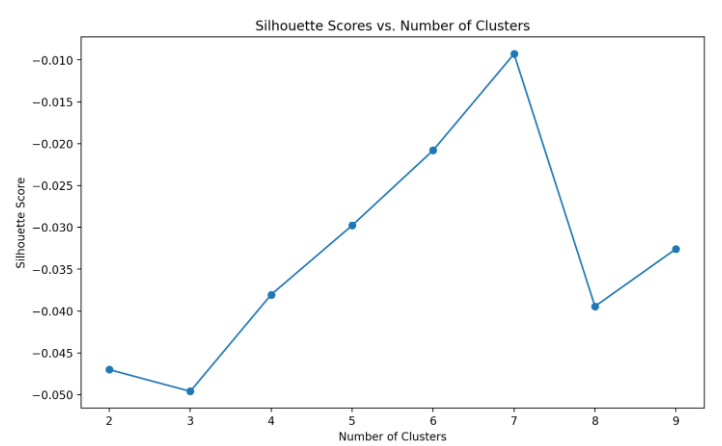
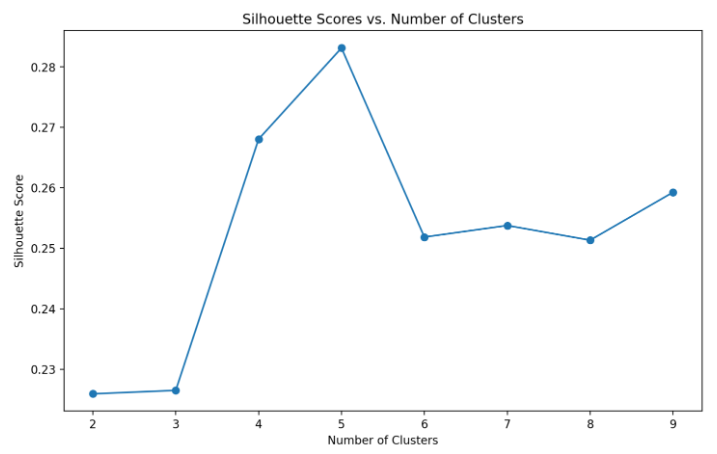
Finished land value Pickled model for prediction

diff --git a/land_value.py b/land_value.py
@@ -9,7 +9,7 @@ import streamlit.components.v1 as components
 '''
 
 """
-Ce projet consiste à analyser et prédire les valeurs foncières en France.\n
+Ce projet consiste à analyser et prédire les valeurs foncières en France métropolitaine.\n
 Nous utiliserons un dataset contenant des informations sur les transactions immobilières en France en 2023. Nous allons commencer par charger et explorer les données, puis nous allons entraîner des modèles de machine learning pour prédire les valeurs foncières.\n
 Pour gagner du temps, seulement 10% des données seront chargées.\n
 Source des données: """ 
@@ -154,7 +154,7 @@ fig = px.choropleth_mapbox(
     color='Prix_m2',
     color_continuous_scale="Viridis",
     mapbox_style="carto-positron",
-    zoom=5,
+    zoom=4,
     center={"lat": 46.603354, "lon": 1.888334},
     opacity=0.6,
     labels={'Prix_m2': 'Prix moyen par m²'},
@@ -194,6 +194,7 @@ import matplotlib.pyplot as plt
 
 # Encoder les colonnes code departement et type local en utilisant OneHotEncoder
 encoder = OneHotEncoder()
+df.drop('Prix_m2', axis=1, inplace=True)
 df_encoded = df.copy()
 for col in ['Code departement', 'Type local']:
     encoded = encoder.fit_transform(df[[col]]).toarray()
@@ -231,7 +232,6 @@ En effet, sur l'échelle de la France ce facteur n'est pas très élevé. A plus
 """## Apprentissage non supervisé"""
 
 
-
 """### Méthode du coude"""
 
 
@@ -241,7 +241,7 @@ from sklearn.cluster import KMeans
 sse = []
 for k in range(1, 11):
     kmeans = KMeans(n_clusters=k, random_state=42)
-    kmeans.fit(df_scaled)
+    kmeans.fit(df_scaled[['Valeur fonciere', 'Surface reelle bati', 'Nombre pieces principales', 'Surface terrain', 'Date mutation']])
     sse.append(kmeans.inertia_)
 
 fig = plt.figure(figsize=(10, 6))
@@ -261,6 +261,9 @@ if (False):
     #on garde que 50% des données pour la méthode de la silhouette
     df_scaled_sample = df_scaled.sample(frac=0.5, random_state=42)
 
+    #on ne prend pas les colonnes encodées
+    df_scaled_sample = df_scaled_sample[['Valeur fonciere', 'Surface reelle bati', 'Nombre pieces principales', 'Surface terrain', 'Date mutation']]
+
     from sklearn.metrics import silhouette_score
     silhouette_scores = []
     with st.spinner("Cela peut prendre quelques secondes..."):
@@ -279,15 +282,14 @@ if (False):
 #plus rapide avec image
 st.image("silhouette.png")
 
-"""On observe clairement un k idéal à 7 clusters"""
-
+"""On observe clairement un k idéal à 5 clusters"""
 
 """### KMeans"""
 
 #clustering
 from sklearn.cluster import KMeans
-kmeans = KMeans(n_clusters=7, random_state=42, init='k-means++')
-kmeans.fit(df_scaled)
+kmeans = KMeans(n_clusters=5, random_state=42, init='k-means++')
+kmeans.fit(df_scaled[['Valeur fonciere', 'Surface reelle bati', 'Nombre pieces principales', 'Surface terrain', 'Date mutation']])
 labels = kmeans.labels_
 
 #plot valeur fonciere against sufrace bati
@@ -334,91 +336,23 @@ st.pyplot(fig)
 
 
 #print how many points in each cluster
-for i in range(7):
+for i in range(5):
     print(f"Cluster {i}: {np.sum(labels == i)} points")
     st.write(f"Cluster {i}: {np.sum(labels == i)} points")
 
-""""On observe d"""
+"""On remarque plusieurs tendances intéressantes dans les clusters:\n
+-cluster 0: semble s'être formé autour de la date de mutation (début d'année). Il comprend environ 40% des données du dataset\n
+-cluster 2: comprend très peu de points mais uniquement des locaux commerciaux et industriels avec une très grande surface\n
+-cluster 3: contient les biens à forte valeur foncière (de tous types)\n
 
-#montre la répartition des clusters par rapport à code département sur un boxplot, avec un slider pour choisir le département
+Le score de silhouette assez faible ne permet pas une analyse plus approfondie avec kmeans."""
 
 """## Apprentissage supervisé"""
 
+"""### Régression random forest"""
 
-
-"""### KNN"""
-
-
-# Utilisation de KNN en utilisant le label 
-
-from sklearn.model_selection import train_test_split
-from sklearn.neighbors import KNeighborsClassifier
-from sklearn.metrics import accuracy_score, confusion_matrix, classification_report
-
-# Sélection des features et de la cible pour le KNN
-X = df_scaled.drop('Code departement', axis=1)
-y = df_encoded['Code departement']
-
-# Division des données en ensembles d'apprentissage et de test
-X_train, X_test, y_train, y_test = train_test_split(X, y, test_size=0.2, random_state=42)
-
-# Initialisation et entrainement du modèle KNN
-knn = KNeighborsClassifier(n_neighbors=5)
-knn.fit(X_train, y_train)
-
-# Prédictions
-y_pred = knn.predict(X_test)
-
-# Évaluation du modèle
-print("Accuracy:", accuracy_score(y_test, y_pred))
-print("Confusion Matrix:\n", confusion_matrix(y_test, y_pred))
-print("Classification Report:\n", classification_report(y_test, y_pred))
-st.write("Accuracy:", accuracy_score(y_test, y_pred))
-st.write("Confusion Matrix:\n", confusion_matrix(y_test, y_pred))
-st.write("Classification Report:\n", classification_report(y_test, y_pred))
-
-"""### Régression linéaire"""
-
-
-
-
-# In[ ]:
-
-
-from sklearn.model_selection import train_test_split
-from sklearn.neighbors import KNeighborsClassifier
-from sklearn.metrics import accuracy_score, confusion_matrix, classification_report
-
-# Sélection des features et de la cible pour le KNN
-X = df_scaled.drop('Type local', axis=1)
-y = df_encoded['Type local'].astype(int)  # Conversion en entier si nécessaire
-
-# Division des données en ensembles d'apprentissage et de test
-X_train, X_test, y_train, y_test = train_test_split(X, y, test_size=0.2, random_state=42)
-
-# Initialisation et entrainement du modèle KNN
-knn = KNeighborsClassifier(n_neighbors=5)
-knn.fit(X_train, y_train)
-
-# Prédictions
-y_pred = knn.predict(X_test)
-
-# Évaluation du modèle
-print("Accuracy:", accuracy_score(y_test, y_pred))
-print("Confusion Matrix:\n", confusion_matrix(y_test, y_pred))
-print("Classification Report:\n", classification_report(y_test, y_pred))
-
-
-# In[ ]:
-
-
-"""### Régression linéaire"""
-
-
-# In[ ]:
-
-
-# Utilisation d'une régression linéaire
+"""On cherche ici à prédire la valeur foncière d'un bien en fonction des autres variables du dataset. On utilisera une régression random forest pour cela."""
+# Utilisation d'une régression random forest
 
 import pandas as pd
 import numpy as np
@@ -430,8 +364,11 @@ from sklearn.metrics import mean_squared_error, r2_score
 from sklearn.model_selection import train_test_split
 
 # Sélection des features et de la cible pour la régression linéaire
-X = df_scaled.drop('Valeur fonciere', axis=1)
+X = df_encoded.drop('Valeur fonciere', axis=1)
 y = df_encoded['Valeur fonciere']
+
+#shuffle df_encoded
+df_encoded = df_encoded.sample(frac=1, random_state=42)
 
 # Division des données en ensembles d'apprentissage et de test
 X_train, X_test, y_train, y_test = train_test_split(X, y, test_size=0.2, random_state=42)
@@ -439,12 +376,15 @@ X_train, X_test, y_train, y_test = train_test_split(X, y, test_size=0.2, random_
 # Initialisation et entrainement du modèle de régression linéaire
 from sklearn.ensemble import RandomForestRegressor
 
-rf = RandomForestRegressor(n_estimators=100, random_state=42)
-rf.fit(X_train, y_train)
-y_pred_rf = rf.predict(X_test)
+with st.spinner("Cela peut prendre quelques secondes..."):
+    rf = RandomForestRegressor(n_estimators=100, random_state=1)
+    rf.fit(X_train, y_train)
+    y_pred_rf = rf.predict(X_test)
 
 print("Random Forest Mean Squared Error:", mean_squared_error(y_test, y_pred_rf))
 print("Random Forest R^2 Score:", r2_score(y_test, y_pred_rf))
+st.write("Random Forest Mean Squared Error:", mean_squared_error(y_test, y_pred_rf))
+st.write("Random Forest R^2 Score:", r2_score(y_test, y_pred_rf))
 
 plt.figure(figsize=(10, 6))
 plt.scatter(y_test, y_pred_rf, alpha=0.3)
@@ -453,4 +393,13 @@ plt.xlabel('Valeur Fonciere Réelle')
 plt.ylabel('Valeur Fonciere Prédite')
 plt.title('Random Forest : Valeur Fonciere Réelle vs Prédite')
 plt.show()
+st.pyplot(plt)
 
+#pickle the model
+import pickle
+filename = 'rf.pkl'
+pickle.dump(rf, open(filename, 'wb'))
+
+"""La prédiction n'est pas très fiable, plus de données sont nécessaire pour améliorer la précision, comme la position géographique du bien, l'année de construction, etc."""
+
+"""Vous pouvez tout de même essayer de prédire la valeur foncière d'un bien sur la page Land value - Prediction"""
